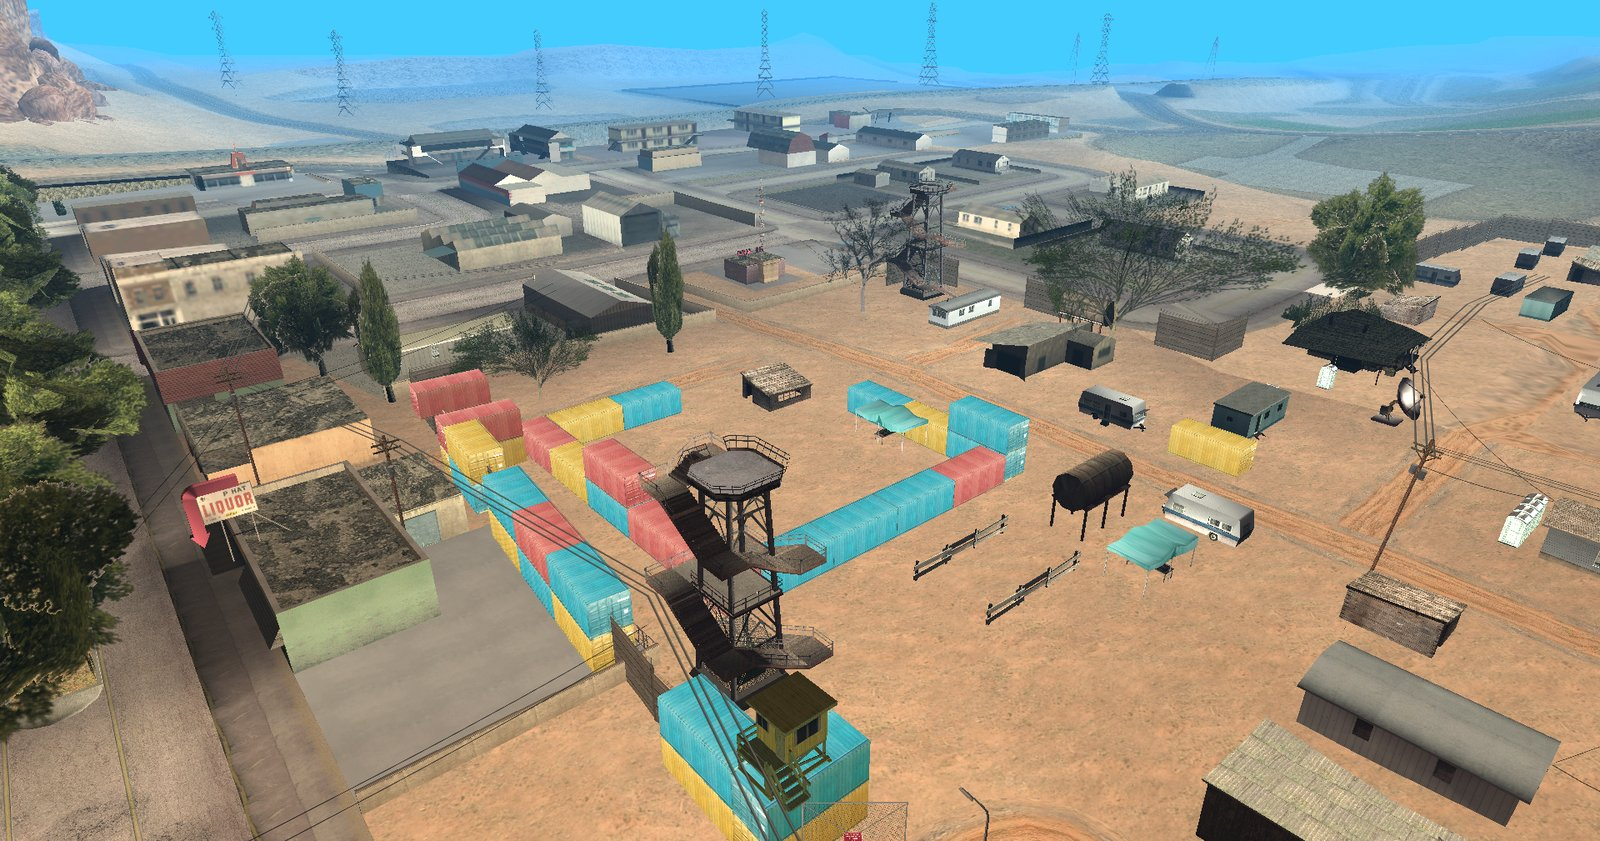
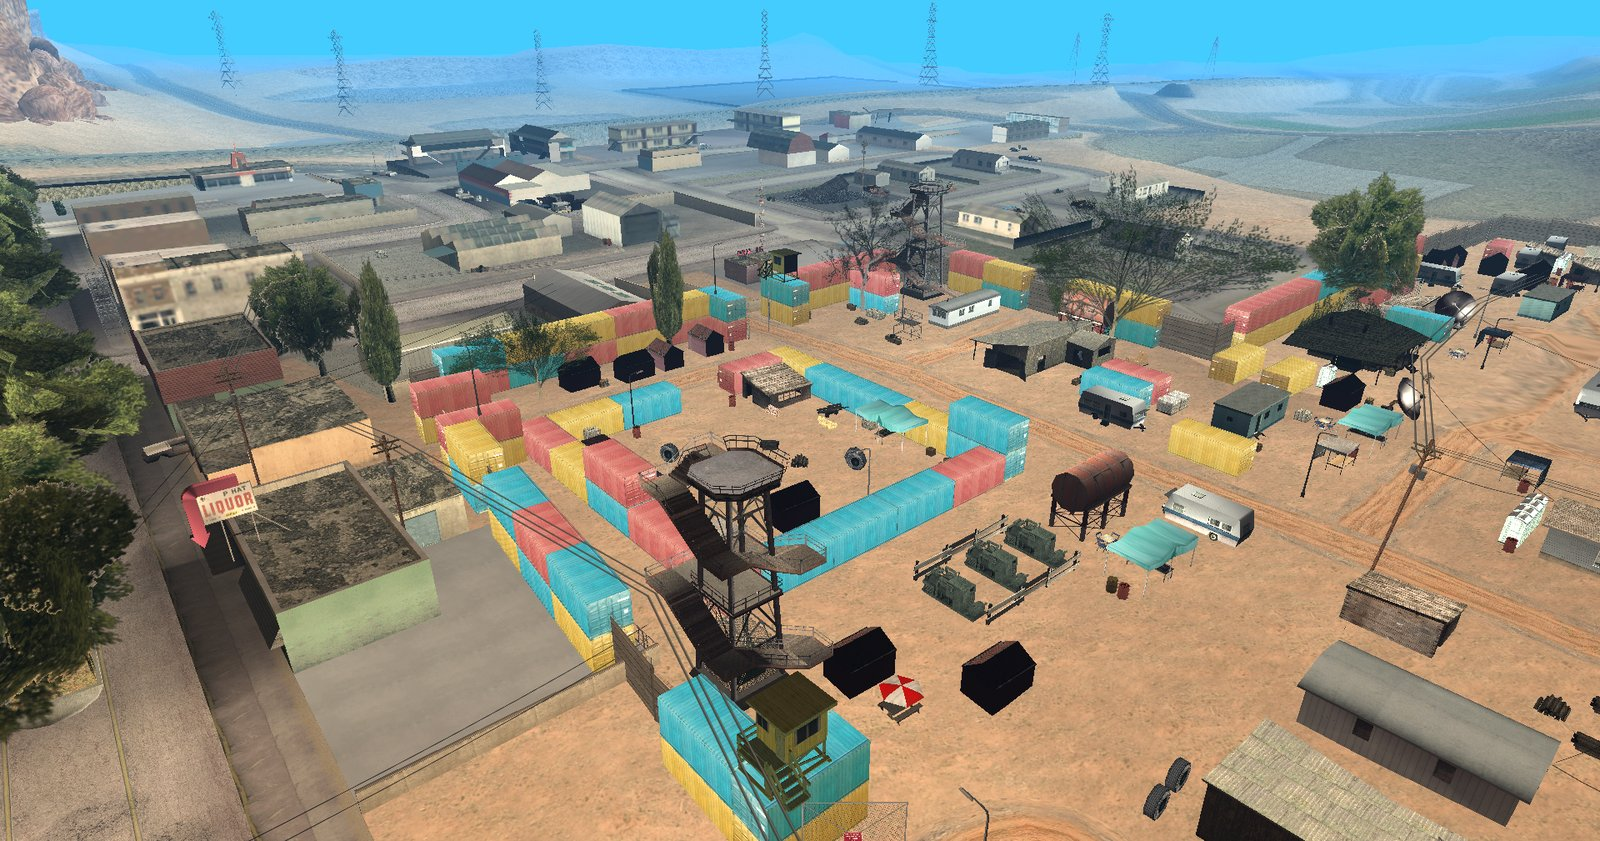
Draw distance in the top bar; Carson Haven gallery retaken
- Top bar (next to FPS), SA-MP > Draw distance and the Render panel:
  "Map" draws SA-MP layer objects at least this far (default 300 m, the
  streamer's stream distance; 0 = model distance), "World" scales every
  model's draw distance (0.5-5x). Saved in samp_settings.ini.
- README: Carson Haven panorama and shots retaken with map objects fully
  drawn, Fort Carson changes, note that it was mapped with the agent toolkit
  driven by Claude.

diff --git a/tools/euryopa/samp.cpp b/tools/euryopa/samp.cpp
@@ -38,6 +38,9 @@ static char gSampGotoPlayer[32];
 static const char *kGotoModes[] = { "rcon", "script", "player", "all" };
 // server -> editor: a script calls Ariane_FocusEditor(At) (ariane.inc), Ariane moves its camera there
 static bool gSampFollowFocus = true;
+// SA-MP layer objects draw at least this far (0 = the model's own draw distance). 300 m is the streamer
+// plugin's default stream distance, so the map looks the way a player near it sees it.
+float gSampLayerDrawDist = 300.0f;
 
 static GameFile *gSampFile;
 static int gSampIplCounter;
@@ -1499,6 +1502,11 @@ LoadSettings(void)
 		}
 		else if(strncmp(line, "gotoplayer=", 11) == 0) strncpy(gSampGotoPlayer, line + 11, sizeof(gSampGotoPlayer) - 1);
 		else if(strncmp(line, "followfocus=", 12) == 0) gSampFollowFocus = atoi(line + 12) != 0;
+		else if(strncmp(line, "drawdist=", 9) == 0){
+			gSampLayerDrawDist = (float)atof(line + 9);
+			if(gSampLayerDrawDist < 0.0f) gSampLayerDrawDist = 0.0f;
+			if(gSampLayerDrawDist > 3000.0f) gSampLayerDrawDist = 3000.0f;
+		}
 	}
 	fclose(f);
 }
@@ -1518,6 +1526,7 @@ SaveSettings(void)
 	fprintf(f, "worldremove=%d\naskremove=%d\n", gSampAllowWorldRemoval ? 1 : 0, gSampAskWorldRemoval ? 1 : 0);
 	fprintf(f, "gotowho=%s\ngotoplayer=%s\n", kGotoModes[gSampGotoWho], gSampGotoPlayer);
 	fprintf(f, "followfocus=%d\n", gSampFollowFocus ? 1 : 0);
+	fprintf(f, "drawdist=%.0f\n", gSampLayerDrawDist);
 	fclose(f);
 }
 
@@ -1904,6 +1913,10 @@ SampMenu(void)
 	if(ImGui::IsItemHovered())
 		ImGui::SetTooltip("When a server script calls Ariane_FocusEditor(playerid) or Ariane_FocusEditorAt(x, y, z)\n"
 		                  "(ariane.inc; /arianefocus in the bundled filterscript), the camera flies there.");
+	if(ImGui::BeginMenu("Draw distance")){
+		SampDrawDistanceSlider(true);
+		ImGui::EndMenu();
+	}
 	if(ImGui::MenuItem("Reload from server", "Ctrl+Shift+L")) SampRequestReload();
 	if(ImGui::IsItemHovered())
 		ImGui::SetTooltip("Replace the SA-MP layer with what the server is running now\n(scriptfiles/ariane_live.txt from the last sync).");
@@ -1919,6 +1932,45 @@ SampMenu(void)
 	ImGui::Separator();
 	if(ImGui::MenuItem("Clear SA-MP layer")) ClearLayer();
 	ImGui::EndMenu();
+}
+
+// Live draw distance controls: map (SA-MP layer) objects and the world multiplier.
+// Shown in SA-MP > Draw distance and in the Render panel.
+void
+SampDrawDistanceSlider(bool withWorld, bool compact)
+{
+	static bool dirty;
+	static const char *mapTip =
+		"Map objects: objects of the SA-MP layer are drawn at least this far, so a whole map\n"
+		"shows from a distance. 0 = each model's own draw distance (small props vanish early).\n"
+		"300 m is the streamer plugin's default stream distance. Editor only: in game,\n"
+		"the streamer and each object's draw distance decide.";
+	static const char *worldTip =
+		"World: multiplier on every model's draw distance (game buildings too).\n"
+		"Higher keeps detailed buildings instead of their LODs further away; slower.";
+	if(compact){
+		ImGui::TextUnformatted("Draw");
+		ImGui::SameLine();
+	}
+	ImGui::SetNextItemWidth(compact ? 120.0f : 220.0f);
+	ImGui::SliderFloat(compact ? "##sampddbar" : "Map objects##sampdd", &gSampLayerDrawDist, 0.0f, 3000.0f,
+	                   gSampLayerDrawDist < 1.0f ? (compact ? "map: model" : "model distance")
+	                                             : (compact ? "map %.0f m" : "%.0f m"),
+	                   ImGuiSliderFlags_Logarithmic);
+	if(ImGui::IsItemEdited()) dirty = true;
+	if(ImGui::IsItemHovered()) ImGui::SetTooltip("%s", mapTip);
+	if(withWorld){
+		if(compact) ImGui::SameLine();
+		ImGui::SetNextItemWidth(compact ? 90.0f : 220.0f);
+		ImGui::SliderFloat(compact ? "##sampddworldbar" : "World##sampddworld", &TheCamera.m_LODmult, 0.5f, 5.0f,
+		                   compact ? "world x%.1f" : "x%.2f");
+		if(ImGui::IsItemHovered()) ImGui::SetTooltip("%s", worldTip);
+	}
+	if(dirty && !ImGui::IsAnyItemActive()){
+		dirty = false;
+		if(gSampLayerDrawDist < 1.0f) gSampLayerDrawDist = 0.0f;
+		SaveSettings();
+	}
 }
 
 void

diff --git a/tools/euryopa/renderer.cpp b/tools/euryopa/renderer.cpp
@@ -112,6 +112,17 @@ AddToLodRenderList(ObjectInst *inst, float dist)
 		AddToRenderList(inst, dist);
 }
 
+// Draw distance: the model's own times the world multiplier. SA-MP layer objects can be drawn
+// further (SA-MP > Draw distance), so a whole map shows from a distance.
+static inline float
+MaxDrawDist(ObjectInst *inst, ObjectDef *obj)
+{
+	float d = obj->GetLargestDrawDist()*TheCamera.m_LODmult;
+	if(gSampLayerDrawDist > d && SampIsLayerInst(inst))
+		d = gSampLayerDrawDist;
+	return d;
+}
+
 // Don't assume there are LODs, just draw if below draw distance
 static int
 SetupVisibilitySimple(ObjectInst *inst, float *distout)
@@ -135,7 +146,7 @@ SetupVisibilitySimple(ObjectInst *inst, float *distout)
 			return VIS_INVISIBLE;
 
 		camdist = TheCamera.distanceTo(inst->m_translation);
-		if(camdist >= obj->GetLargestDrawDist()*TheCamera.m_LODmult)
+		if(camdist >= MaxDrawDist(inst, obj))
 			return VIS_INVISIBLE;
 
 		if(!gNoTimeCull && obj->m_isTimed && !IsHourInRange(obj->m_timeOn, obj->m_timeOff))
@@ -189,7 +200,7 @@ SetupVisibilityIII(ObjectInst *inst, float *distout)
 			return VIS_INVISIBLE;
 
 		camdist = TheCamera.distanceTo(inst->m_translation);
-		if(camdist >= obj->GetLargestDrawDist()*TheCamera.m_LODmult)
+		if(camdist >= MaxDrawDist(inst, obj))
 			return VIS_INVISIBLE;
 		if(camdist < obj->m_minDrawDist*TheCamera.m_LODmult)
 			if(hdobj == nil || hdobj->IsLoaded())
@@ -244,7 +255,7 @@ SetupVisibilitySA(ObjectInst *inst, float camdist)
 		if(obj->m_isHidden)
 			return VIS_INVISIBLE;
 
-		if(camdist >= obj->GetLargestDrawDist()*TheCamera.m_LODmult)
+		if(camdist >= MaxDrawDist(inst, obj))
 			return VIS_INVISIBLE;
 
 		if(!gNoTimeCull && obj->m_isTimed && !IsHourInRange(obj->m_timeOn, obj->m_timeOff))

diff --git a/tools/euryopa/gui.cpp b/tools/euryopa/gui.cpp
@@ -555,7 +555,7 @@ normalizePersistentSettings(void)
 		extraColours = -1;
 	Weather::interpolation = clamp(Weather::interpolation, 0.0f, 1.0f);
 	TheCamera.m_fov = ClampCameraFov(TheCamera.m_fov);
-	TheCamera.m_LODmult = clamp(TheCamera.m_LODmult, 0.5f, 3.0f);
+	TheCamera.m_LODmult = clamp(TheCamera.m_LODmult, 0.5f, 5.0f);
 	gFlySpeed = clamp(gFlySpeed, 0.1f, 70.0f);
 	gFlyFastMul = clamp(gFlyFastMul, 1.0f, 10.0f);
 	gFlySlowMul = clamp(gFlySlowMul, 0.05f, 1.0f);
@@ -4010,6 +4010,8 @@ uiMainmenu(void)
 		if(ImGui::SmallButton("+")) ImGui::GetIO().FontGlobalScale *= 1.1f;
 		ImGui::Separator();
 		ImGui::Text("%.3f ms/frame %.1f FPS", 1000.0f / ImGui::GetIO().Framerate, ImGui::GetIO().Framerate);
+		ImGui::Separator();
+		SampDrawDistanceSlider(true, true);
 		ImGui::EndMainMenuBar();
 	}
 	uiExportPrefabPopup();
@@ -5065,7 +5067,8 @@ uiView(void)
 	ImGui::RadioButton("Render only LOD", &gRenderMode, 2);
 	gRenderOnlyHD = gRenderMode == 1;
 	gRenderOnlyLod = gRenderMode == 2;
-	ImGui::SliderFloat("Draw Distance", &TheCamera.m_LODmult, 0.5f, 3.0f, "%.3f");
+	ImGui::SliderFloat("Draw Distance", &TheCamera.m_LODmult, 0.5f, 5.0f, "x%.2f");
+	SampDrawDistanceSlider(false);
 	ImGui::Checkbox("Render all Timed Objects", &gNoTimeCull);
 	if(params.numAreas)
 		ImGui::Checkbox("Render all Areas", &gNoAreaCull);

diff --git a/tools/euryopa/euryopa.h b/tools/euryopa/euryopa.h
@@ -566,6 +566,7 @@ extern bool gSampProtectGameFiles;
 GameFile *SampGetLayerFile(void);
 bool SampIsLayerFile(const char *name);
 bool SampIsLayerInst(ObjectInst *inst);
+extern float gSampLayerDrawDist;	// SA-MP layer objects draw at least this far (0 = model distance)
 bool SampModeActive(void);
 // World-building removal: game buildings become RemoveBuildingForPlayer removals (never IPL edits)
 extern bool gSampAllowWorldRemoval;
@@ -574,6 +575,7 @@ bool SampCanPickWorldBuilding(ObjectInst *inst);
 void SampDeleteSelection(void);	// Delete key / Object Info: asks first when world buildings are selected
 // SA-MP windows (samp.cpp): Removed Buildings, SA-MP Checks, Show in game, Object Info material editor
 void SampWindows(void);
+void SampDrawDistanceSlider(bool withWorld, bool compact = false);	// top bar, SA-MP > Draw distance, Render panel
 void SampOpenRemovedWindow(void);
 void SampOpenChecksWindow(void);
 void SampShowInGame(void);

diff --git a/README.md b/README.md
@@ -87,6 +87,8 @@ stats; place it or fly to the nearest one.
 
 ### And more
 
+- **Draw distance in the top bar**, next to the FPS counter: draw map objects up to 3 km away (300 m by
+  default, the streamer's stream distance) and scale the world's draw distance, live.
 - **Mapping styles**: curated model sets (for example *wasteland*) for consistent maps.
 - **Building blocks**: exact-size plain shapes to compose and retexture custom objects.
 - Fixes: dropped quick clicks and key taps, lost or squashed panels, mirrored thumbnails, and more.
@@ -95,14 +97,31 @@ The full list of changes is in [SAMP-EDITION.md](SAMP-EDITION.md).
 
 ## Proof of concept: Carson Haven
 
-A wasteland settlement mapped in and around Fort Carson with Ariane Plus — about 850 objects, 36 removed
-game buildings and retextured lots, mapped largely through the AI agent toolkit, then checked and refined
-in the editor with the tools above. All screenshots are taken inside Ariane Plus.
+A wasteland settlement mapped in and around Fort Carson with Ariane Plus: about 850 objects, 36 removed
+game buildings, ruined lots and retextured pieces. All screenshots are taken inside Ariane Plus.
+
+<p align="center"><img src="docs/plus/carson_panorama.jpg" width="900" alt="Carson Haven from above"></p>
+
+> **Made with Ariane Plus's agentic capabilities, hooked into Claude.** Claude drove the editor through
+> the Ariane Plus agent toolkit (the `arianectl` CLI and MCP server): it scanned the ground, laid out the
+> settlement, placed, settled and retextured the objects and removed the game buildings in the way.
+> The result was then checked and refined in the editor with the tools above.
+
+**The settlement**
 
 | | |
 |---|---|
 | ![The container compound](docs/plus/carson_compound.jpg) | ![Inside the compound](docs/plus/carson_courtyard.jpg) |
-| ![The shanty town](docs/plus/carson_shanty.jpg) | ![The town blocks](docs/plus/carson_blocks.jpg) |
+| ![The shanty town](docs/plus/carson_shanty.jpg) | ![Looking toward the town](docs/plus/carson_blocks.jpg) |
+
+**Changes around Fort Carson**: houses removed and replaced with burnt-out lots, wrecks and rubble, and
+the settlement running up to the edge of town.
+
+| | |
+|---|---|
+| ![West Fort Carson: a ruined lot where houses stood](docs/plus/fortcarson_west.jpg) | ![East Fort Carson: rubble in place of a house](docs/plus/fortcarson_east.jpg) |
+
+<p align="center"><img src="docs/plus/fortcarson_edge.jpg" width="720" alt="The settlement at the edge of town"></p>
 
 ## Server side: ariane.inc
 

diff --git a/SAMP-EDITION.md b/SAMP-EDITION.md
@@ -72,6 +72,11 @@ ever touching your game's IPL files. This file is the detailed list of what chan
   shows every texture in a TXD as thumbnails (the model's own TXD is filled in), the colour box sets the
   material colour, Clear removes the override. Copy materials / Paste to selection copies a look across
   objects. Same data as the agent's `material` commands; it syncs and exports like any edit.
+- **Draw distance** — in the top bar next to the FPS counter (also SA-MP > Draw distance and the Render
+  panel). *Map* draws SA-MP layer objects at least this far (0 = each model's own distance, default 300 m,
+  the streamer's default stream distance, up to 3 km), so a whole map shows from a distance; *World*
+  multiplies every model's draw distance (0.5–5×). Editor only: in game the streamer and each object's
+  draw distance decide.
 - All SA-MP shortcuts are listed under **SA-MP** in Window > Keyboard Shortcuts.
 
 ## Model Viewer
